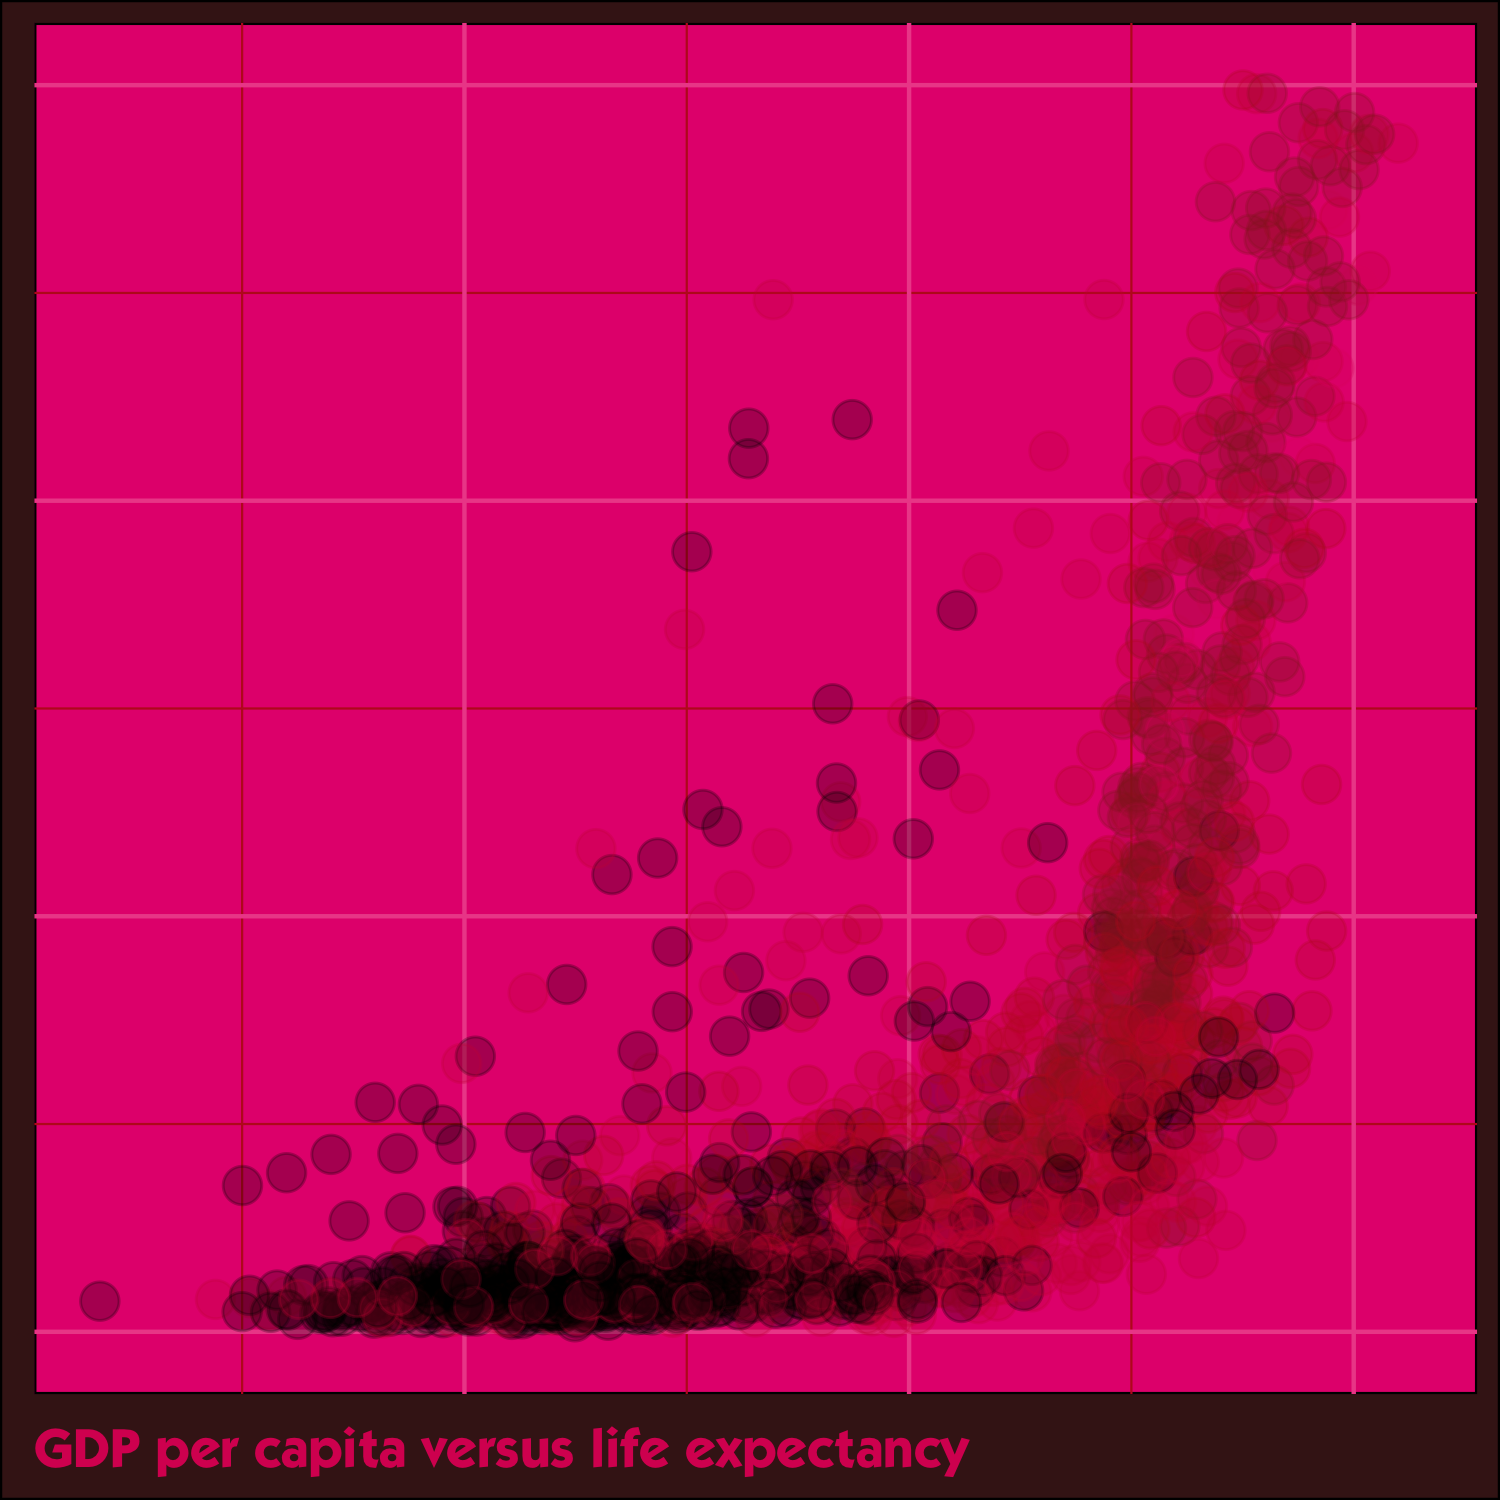
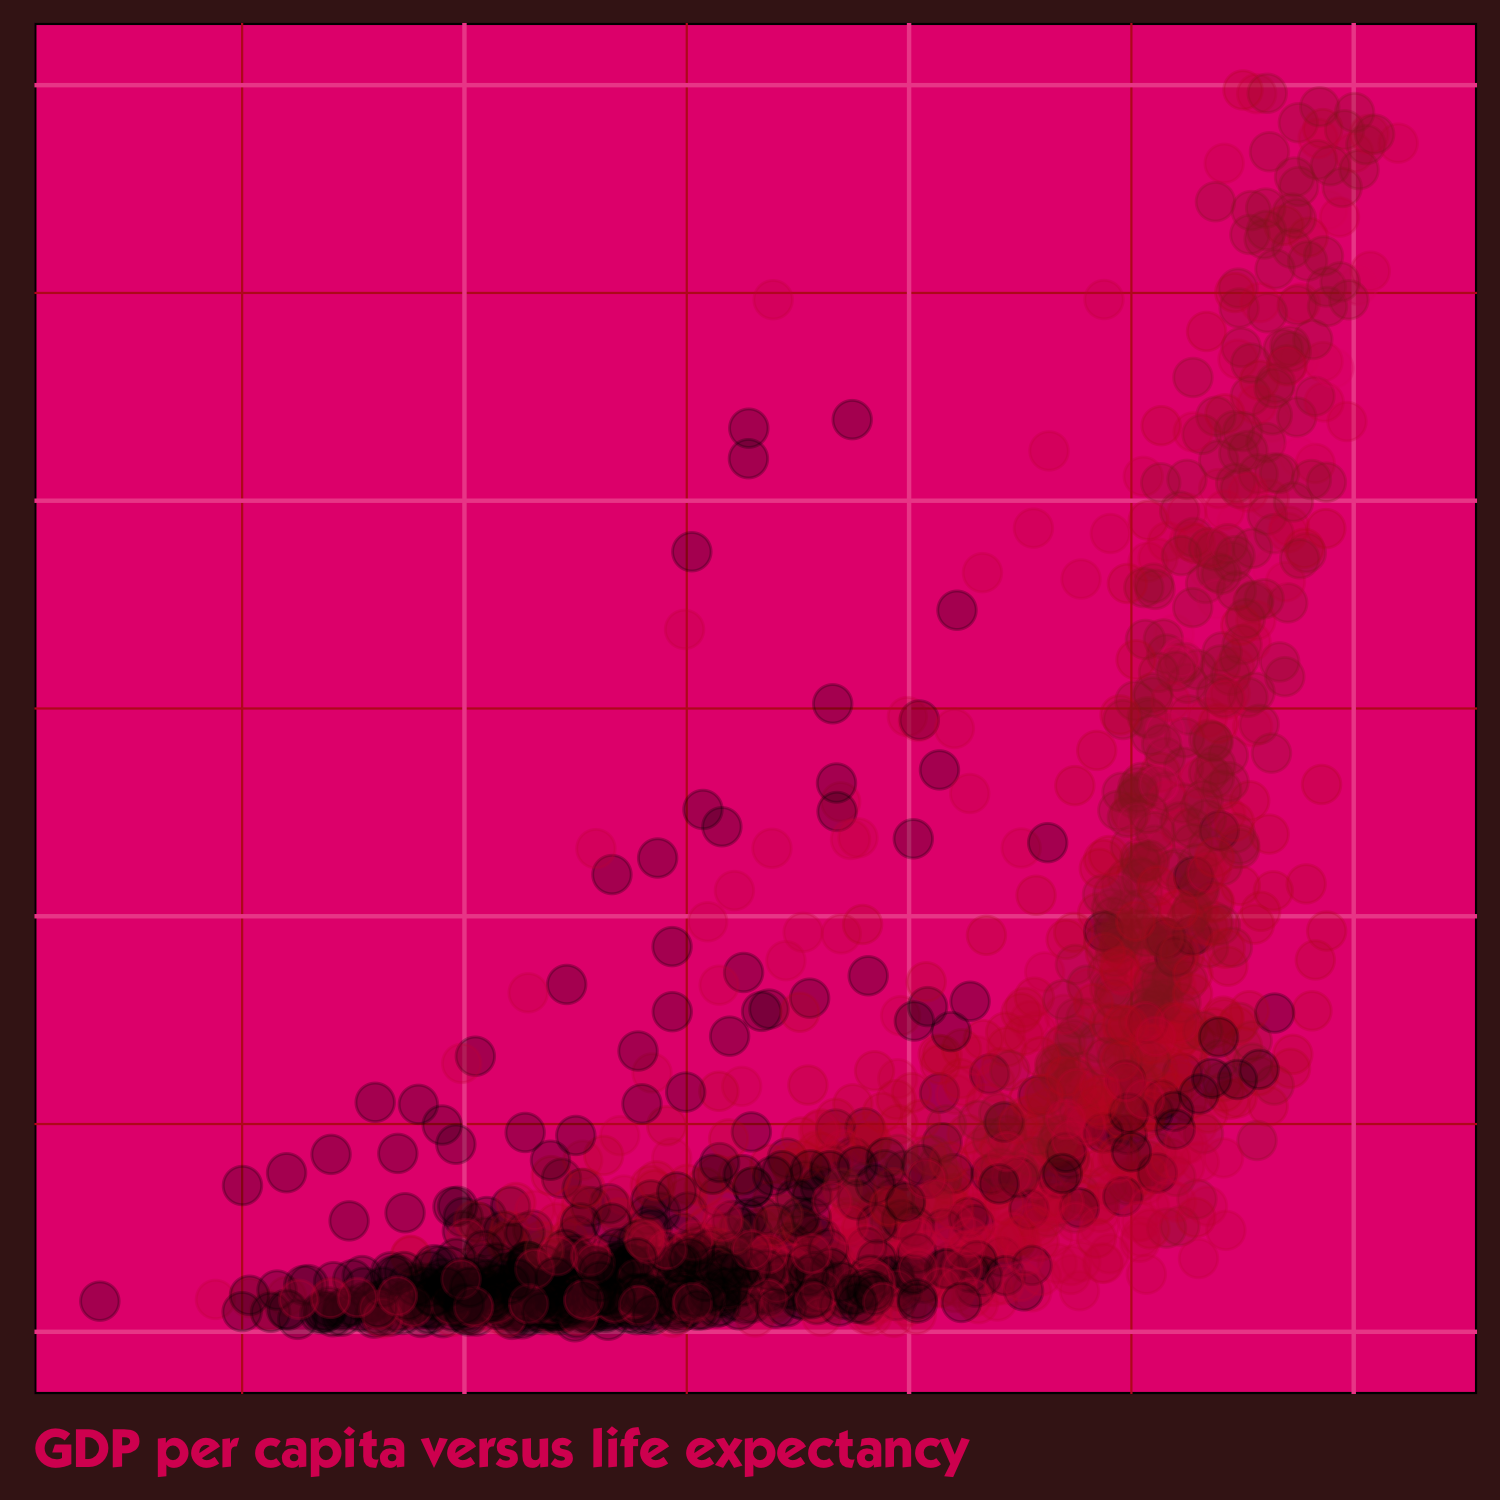
Fix plot outlines

Changed region(s): [[0.9813, 0.9813, 1.0, 1.0], [0.9813, 0.0, 1.0, 0.0307], [0.0, 0.9813, 0.0307, 1.0]]

diff --git a/README.md b/README.md
@@ -16,7 +16,7 @@ isnt_anything <- ggplot(gapminder, aes(
   scale_color_manual(values = c("#ECD5AB", "#E7CFB5", "#EBCDC2", "#AC6B65", "#BD9188")) +
   labs(title = "GDP per capita by continent") +
   theme(
-    plot.background = element_rect(fill = "#F3EED0"),
+    plot.background = element_rect(fill = "#F3EED0", colour = "#F3EED0"),
     panel.background = element_rect(fill = "#F3EEDA"),
     plot.title = element_text(colour = "#4A1108", family = "ITC Kabel Std Book", size = 20),
     plot.title.position = "plot",
@@ -42,7 +42,7 @@ loveless <- ggplot(gapminder, aes(x = lifeExp, y = gdpPercap, colour = continent
   labs(caption = "GDP per capita versus life expectancy") +
   theme_minimal(base_family = "ITC Kabel Std Bold") +
   theme(
-    plot.background = element_rect(fill = "#421A1A"),
+    plot.background = element_rect(fill = "#421A1A", colour = "#421A1A"),
     panel.background = element_rect(fill = "#E5247D"),
     panel.grid.major = element_line(colour = "#EE5198"),
     panel.grid.minor = element_line(colour = "#BE1D22"),
@@ -66,7 +66,7 @@ mbv <- ggplot(gapminder, aes(x = year, y = lifeExp, colour = continent)) +
   labs(x = "Year", y = "Life Expectancy") +
   theme_dark(base_family = "ITC Kabel Std Bold", ) +
   theme(
-    plot.background = element_rect(fill = "#090B7C"),
+    plot.background = element_rect(fill = "#090B7C", colour = "#090B7C"),
     panel.background = element_rect(fill = "#090B7C"),
     panel.grid.major = element_line(colour = "#1519D0"),
     panel.grid.minor = element_line(colour = "#1518D5"),
